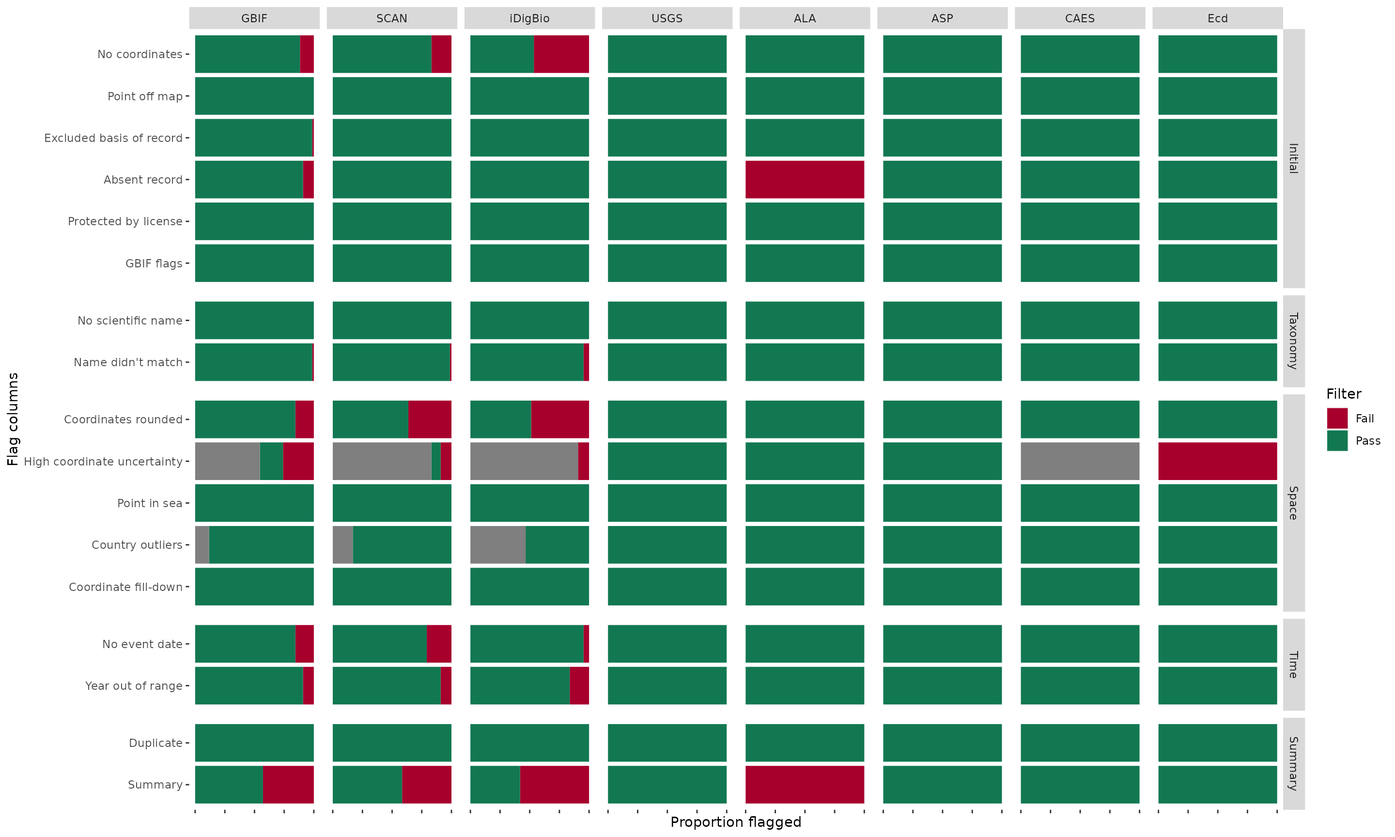
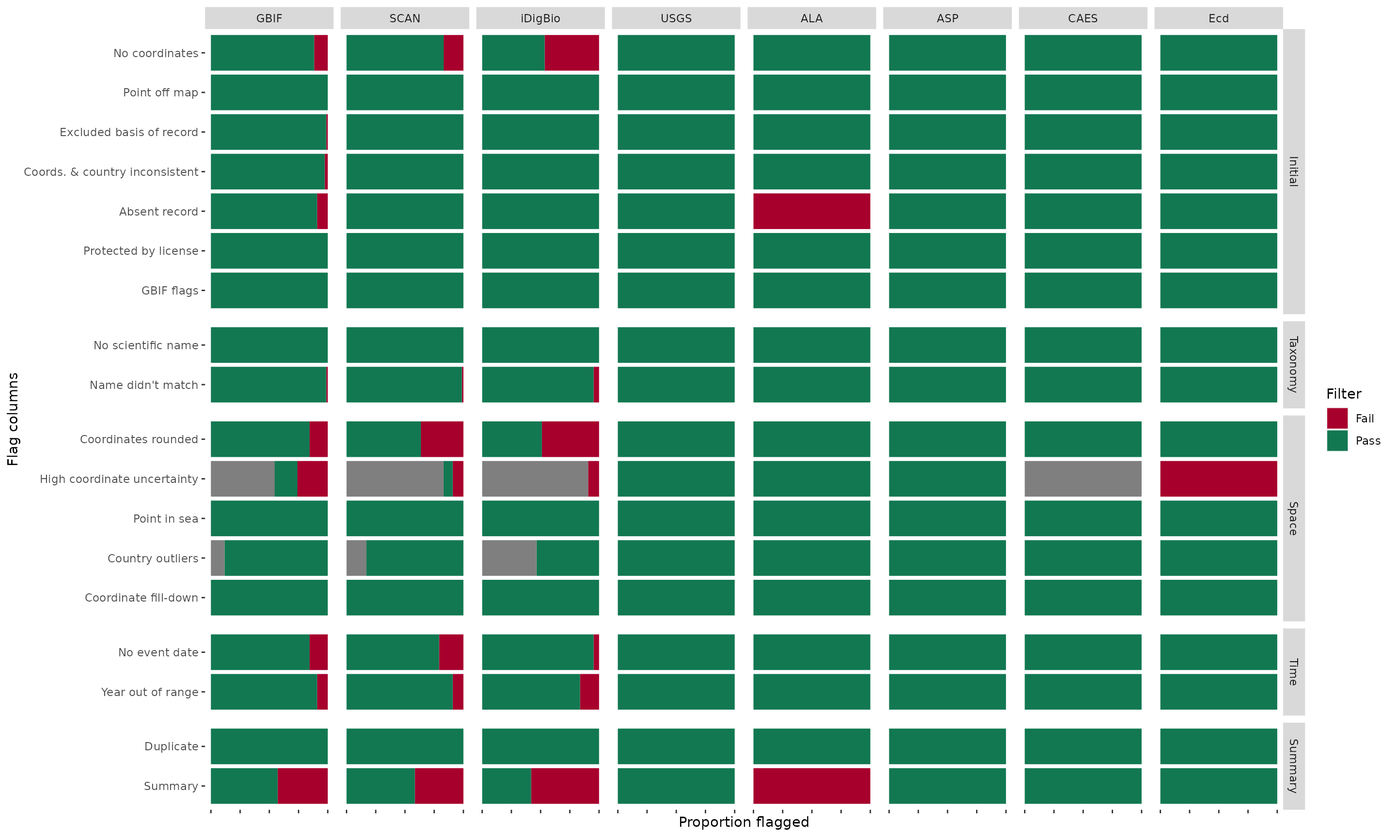
Deploying to gh-pages from @ jbdorey/BeeBDC@89a1ea1a7a8eb7227eee96995a95941b17343a9b 🚀

Changed region(s): [[0.0312, 0.0, 0.9375, 1.0], [0.0625, 0.5625, 0.0938, 0.5938], [0.0312, 0.5312, 0.0625, 0.5625]]

diff --git a/articles/BeeBDC_main.html b/articles/BeeBDC_main.html
@@ -190,7 +190,7 @@ gdal”.</p>
 <span><span class="co">## The version of R recorded in the lockfile will be updated:</span></span>
 <span><span class="co">## - R      [* -&gt; 4.3.1]</span></span>
 <span><span class="co">## </span></span>
-<span><span class="co">## - Lockfile written to "/tmp/RtmpQahp4o/Data_acquisition_workflow/renv.lock".</span></span></code></pre></div>
+<span><span class="co">## - Lockfile written to "/tmp/RtmpfxOD14/Data_acquisition_workflow/renv.lock".</span></span></code></pre></div>
 <p>Set up the directories used by BeeBDC. These directories include
 where the data, figures, reports, etc. will be saved. The RDoc needs to
 be a path RELATIVE to the RootPath; i.e., the file path from which the
@@ -583,7 +583,11 @@ occupancy. <em>Nature Ecology &amp; Evolution</em> 5, 787-793 (2021). <a href="h
 <div class="section level7">
 <h6 id="g--caes">g. CAES<a class="anchor" aria-label="anchor" href="#g--caes"></a>
 </h6>
-<p>From the Connecticut Agricultural Experiment Station</p>
+<p>From the Connecticut Agricultural Experiment Station. Zarrillo, T.
+A., Stoner, K. A. &amp; Ascher, J. S. Biodiversity of bees (Hymenoptera:
+Apoidea: Anthophila) in Connecticut (USA). Zootaxa (Accepted). Ecdysis.
+Occurrence dataset (ID: 16fca9c2-f622-4cb1-aef0-3635a7be5aeb). <a href="https://ecdysis.org/content/dwca/CAES-CAES_DwC-A.zip" class="external-link uri">https://ecdysis.org/content/dwca/CAES-CAES_DwC-A.zip</a>.
+(2023)</p>
 <pre><code><span><span class="va">CAES_Data</span> <span class="op">&lt;-</span> <span class="fu">BeeBDC</span><span class="fu">::</span><span class="fu"><a href="../reference/readr_BeeBDC.html">readr_BeeBDC</a></span><span class="op">(</span>dataset <span class="op">=</span> <span class="st">"CAES"</span>,</span>
 <span>                                path <span class="op">=</span> <span class="fu"><a href="https://rdrr.io/r/base/paste.html" class="external-link">paste0</a></span><span class="op">(</span><span class="va">DataPath</span>, <span class="st">"/Additional_Datasets"</span><span class="op">)</span>,</span>
 <span>                        inFile <span class="op">=</span> <span class="st">"/InputDatasets/CT_BEE_DATA_FROM_PBI.xlsx"</span>,</span>
@@ -921,13 +925,12 @@ details. NOTE: In an actual run you should use scale = “large”</p>
 <span>                                    <span class="co"># Start row</span></span>
 <span>                                   chunkStart <span class="op">=</span> <span class="fl">1</span>,</span>
 <span>                                   path <span class="op">=</span> <span class="va">OutPath_Intermediate</span>,</span>
-<span>                                   append <span class="op">=</span> <span class="cn">FALSE</span>,</span>
-<span>                                   progressiveSave <span class="op">=</span> <span class="cn">FALSE</span>,</span>
 <span>                                    <span class="co"># Normally, please use scale = "large"</span></span>
 <span>                                   scale <span class="op">=</span> <span class="st">"medium"</span>,</span>
 <span>                                   mc.cores <span class="op">=</span> <span class="fl">1</span><span class="op">)</span>,</span>
 <span>  classes <span class="op">=</span> <span class="st">"warning"</span><span class="op">)</span></span>
-<span><span class="co">## Error in BeeBDC::jbd_CfC_chunker(data = check_pf_noNa, lat = "decimalLatitude", : unused arguments (append = FALSE, progressiveSave = FALSE)</span></span></code></pre></div>
+<span><span class="co">##  - Starting parallel operation. Unlike the serial operation (mc.cores = 1) , a parallel operation will not provide running feedback. Please be patient  as this function may take some time to complete. Each chunk will be run on  a seperate thread so also be aware of RAM usage.</span></span>
+<span><span class="co">##  - We have updated the country names of 39 occurrences that previously had no country name assigned.</span></span></code></pre></div>
 </div>
 <div class="section level4">
 <h4 id="c--re-merge">c. re-merge<a class="anchor" aria-label="anchor" href="#c--re-merge"></a>
@@ -943,8 +946,7 @@ details. NOTE: In an actual run you should use scale = “large”</p>
 <span>                                         <span class="va">countryCO</span>,</span>
 <span>                                         <span class="va">country</span><span class="op">)</span><span class="op">)</span> <span class="op"><a href="https://magrittr.tidyverse.org/reference/pipe.html" class="external-link">%&gt;%</a></span></span>
 <span>    <span class="co"># Remove duplicates if they arose from left_join!</span></span>
-<span>  <span class="fu">dplyr</span><span class="fu">::</span><span class="fu"><a href="https://dplyr.tidyverse.org/reference/distinct.html" class="external-link">distinct</a></span><span class="op">(</span><span class="op">)</span></span>
-<span><span class="co">## Error in eval(expr, envir, enclos): object 'countryOutput' not found</span></span></code></pre></div>
+<span>  <span class="fu">dplyr</span><span class="fu">::</span><span class="fu"><a href="https://dplyr.tidyverse.org/reference/distinct.html" class="external-link">distinct</a></span><span class="op">(</span><span class="op">)</span></span></code></pre></div>
 <p>Save the dataset.</p>
 <div class="sourceCode" id="cb56"><pre class="downlit sourceCode r">
 <code class="sourceCode R"><span><span class="va">check_pf</span> <span class="op"><a href="https://magrittr.tidyverse.org/reference/pipe.html" class="external-link">%&gt;%</a></span></span>
@@ -990,6 +992,7 @@ codes, if needed.</p>
 <span><span class="co">## country found: Finland</span></span>
 <span><span class="co">## country found: France</span></span>
 <span><span class="co">## country found: Germany</span></span>
+<span><span class="co">## country found: Ireland</span></span>
 <span><span class="co">## country found: Mexico</span></span>
 <span><span class="co">## country found: Norway</span></span>
 <span><span class="co">## country found: South Africa</span></span>
@@ -1066,9 +1069,19 @@ coordinates are inconsistent with the provided country name.</p>
 <span>  data <span class="op">=</span> <span class="va">check_pf</span>,</span>
 <span>  lon <span class="op">=</span> <span class="st">"decimalLongitude"</span>,</span>
 <span>  lat <span class="op">=</span> <span class="st">"decimalLatitude"</span>,</span>
-<span>  mapResolution <span class="op">=</span> <span class="fl">50</span>,</span>
+<span>  scale <span class="op">=</span> <span class="fl">50</span>,</span>
 <span>  pointBuffer <span class="op">=</span> <span class="fl">0.01</span><span class="op">)</span></span>
-<span><span class="co">## Error in BeeBDC::jbd_coordCountryInconsistent(data = check_pf, lon = "decimalLongitude", : unused argument (mapResolution = 50)</span></span></code></pre></div>
+<span><span class="co">##  - Downloading naturalearth map...</span></span>
+<span><span class="co">## Spherical geometry (s2) switched off</span></span>
+<span><span class="co">##  - Extracting initial country names without buffer...</span></span>
+<span><span class="co">##  - Buffering naturalearth map by pointBuffer...</span></span>
+<span><span class="co">## dist is assumed to be in decimal degrees (arc_degrees).</span></span>
+<span><span class="co">##  - Extracting FAILED country names WITH buffer...</span></span>
+<span><span class="co">## </span></span>
+<span><span class="co">## jbd_coordinates_country_inconsistent:</span></span>
+<span><span class="co">## Flagged 2 records.</span></span>
+<span><span class="co">## The column, '.coordinates_country_inconsistent', was added to the database.</span></span>
+<span><span class="co">##  - Completed in 1.11 secs</span></span></code></pre></div>
 <p>Save the dataset.</p>
 <div class="sourceCode" id="cb65"><pre class="downlit sourceCode r">
 <code class="sourceCode R"><span><span class="va">check_pf</span> <span class="op"><a href="https://magrittr.tidyverse.org/reference/pipe.html" class="external-link">%&gt;%</a></span></span>
@@ -1171,7 +1184,7 @@ fail-safe.</p>
 <span>  filterClean <span class="op">=</span> <span class="cn">FALSE</span><span class="op">)</span></span>
 <span><span class="co">##  - We will flag all columns starting with '.'</span></span>
 <span><span class="co">##  - summaryFun:</span></span>
-<span><span class="co">## Flagged 50 </span></span>
+<span><span class="co">## Flagged 52 </span></span>
 <span><span class="co">##   The .summary column was added to the database.</span></span></code></pre></div>
 </div>
 <div class="section level4">
@@ -1251,8 +1264,7 @@ columns.</p>
 <span>  <span class="fu">dplyr</span><span class="fu">::</span><span class="fu"><a href="https://dplyr.tidyverse.org/reference/select.html" class="external-link">select</a></span><span class="op">(</span><span class="va">.uncer_terms</span>, <span class="va">names_clean</span><span class="op">)</span></span></code></pre></div>
 <p>Merge names with the complete dataset.</p>
 <div class="sourceCode" id="cb81"><pre class="downlit sourceCode r">
-<code class="sourceCode R"><span><span class="va">database</span> <span class="op">&lt;-</span> <span class="fu">dplyr</span><span class="fu">::</span><span class="fu"><a href="https://dplyr.tidyverse.org/reference/bind_cols.html" class="external-link">bind_cols</a></span><span class="op">(</span><span class="va">database</span>, <span class="va">parse_names</span><span class="op">)</span></span>
-<span><span class="co">## Error in eval(expr, envir, enclos): object 'parse_names' not found</span></span>
+<code class="sourceCode R"><span><span class="va">database</span> <span class="op">&lt;-</span> <span class="fu">dplyr</span><span class="fu">::</span><span class="fu"><a href="https://dplyr.tidyverse.org/reference/bind_cols.html" class="external-link">bind_cols</a></span><span class="op">(</span><span class="va">database</span><span class="op">)</span></span>
 <span><span class="fu"><a href="https://rdrr.io/r/base/rm.html" class="external-link">rm</a></span><span class="op">(</span><span class="va">parse_names</span><span class="op">)</span></span></code></pre></div>
 </div>
 <div class="section level3">
@@ -1286,7 +1298,7 @@ Life</a>. You can also use multiple cores to achieve this. See
 <span><span class="co">## records were flagged.</span></span>
 <span><span class="co">## The column, '.invalidName' was added to the database.</span></span>
 <span><span class="co">##  - We updated the following columns: scientificName, species, family, subfamily, genus, subgenus, specificEpithet, infraspecificEpithet, and scientificNameAuthorship. The previous scientificName column was converted to verbatimScientificName</span></span>
-<span><span class="co">##  - Completed in 1.91 secs</span></span></code></pre></div>
+<span><span class="co">##  - Completed in 1.58 secs</span></span></code></pre></div>
 <p>You don’t need this file any more…</p>
 <div class="sourceCode" id="cb84"><pre class="downlit sourceCode r">
 <code class="sourceCode R"><span><span class="fu"><a href="https://rdrr.io/r/base/rm.html" class="external-link">rm</a></span><span class="op">(</span><span class="va">beesTaxonomy</span><span class="op">)</span></span></code></pre></div>
@@ -1537,7 +1549,6 @@ identifying potential misidentifications, outliers, etc.’</p>
 <span>                          <span class="co"># We have not attempted a scale of 10.</span></span>
 <span>                        scale <span class="op">=</span> <span class="fl">50</span>,</span>
 <span>                        mc.cores <span class="op">=</span> <span class="fl">1</span><span class="op">)</span></span>
-<span><span class="co">## Spherical geometry (s2) switched off</span></span>
 <span><span class="co">##  - Extracting country data from points...</span></span>
 <span><span class="co">##  - Buffering failed points by pointBuffer...</span></span>
 <span><span class="co">##  - Prepare the neighbouring country dataset...</span></span>
@@ -1556,7 +1567,7 @@ identifying potential misidentifications, outliers, etc.’</p>
 <span><span class="co">##  1.  The '.countryOutlier' column was added which is a filtering column. </span></span>
 <span><span class="co">##  2.  The 'countryMatch' columns indicates exact, neighbour, or noMatch. </span></span>
 <span><span class="co">##  3. The '.sea' column was added as a filtering column for points in the ocean.  The '.sea' column includes the user input buffer in its calculation.</span></span>
-<span><span class="co">##  - Completed in 6.99 secs</span></span></code></pre></div>
+<span><span class="co">##  - Completed in 6.22 secs</span></span></code></pre></div>
 <div class="sourceCode" id="cb105"><pre class="downlit sourceCode r">
 <code class="sourceCode R"><span>  <span class="co"># A list of failed species-country combinations and their numbers can be output here</span></span>
 <span><span class="va">check_space</span> <span class="op"><a href="https://magrittr.tidyverse.org/reference/pipe.html" class="external-link">%&gt;%</a></span></span>
@@ -1712,7 +1723,7 @@ were a) missing and b) located in one of the searched columns.</p>
 <span><span class="co">## We rescued: </span></span>
 <span><span class="co">## 175 occurrences with missing eventDate.</span></span>
 <span><span class="co">##  - As it stands, there are 175 complete eventDates and 30 missing dates.</span></span>
-<span><span class="co">##  - There are also 175 complete year occurrences to filter from. This is up from an initial count of 174 At this rate, you will stand to lose 30 occurrences on the basis of missing year - Operation time: 0.412241220474243 secs</span></span></code></pre></div>
+<span><span class="co">##  - There are also 175 complete year occurrences to filter from. This is up from an initial count of 174 At this rate, you will stand to lose 30 occurrences on the basis of missing year - Operation time: 0.383747577667236 secs</span></span></code></pre></div>
 </div>
 <div class="section level3">
 <h3 id="no-eventdate">6.2 No eventDate<a class="anchor" aria-label="anchor" href="#no-eventdate"></a>
@@ -1909,8 +1920,9 @@ this function is quite modifiable to user needs.</p>
 <span><span class="co">##  - Ordering prefixs...</span></span>
 <span><span class="co">##  - Ordering data by 1. dataSource, 2. completeness and 3. .summary column...</span></span>
 <span><span class="co">##  - Find and FIRST duplicate to keep and assign other associated duplicates to that one (i.e., across multiple tests a 'kept duplicate', could otherwise be removed)...</span></span>
-<span><span class="co">## Error: Cannot open file for writing:</span></span>
-<span><span class="co">## * '/tmp/RtmpQahp4o/Data_acquisition_workflow/Output/Report/duplicateRun_collectionInfo_2023-09-09.csv'</span></span></code></pre></div>
+<span><span class="co">##  - Duplicates have been saved in the file and location: /tmp/RtmpfxOD14/Data_acquisition_workflow/Output/ReportduplicateRun_collectionInfo_2023-09-11.csv</span></span>
+<span><span class="co">##  - Across the entire dataset, there are now 0 duplicates from a total of 205 occurrences.</span></span>
+<span><span class="co">##  - Completed in 0.64 secs</span></span></code></pre></div>
 <p>Save the dataset into the intermediate folder.</p>
 <div class="sourceCode" id="cb128"><pre class="downlit sourceCode r">
 <code class="sourceCode R"><span><span class="va">check_time</span> <span class="op"><a href="https://magrittr.tidyverse.org/reference/pipe.html" class="external-link">%&gt;%</a></span></span>
@@ -1952,8 +1964,16 @@ expert outliers.</p>
 <span>  <span class="va">duplicates</span> <span class="op">&lt;-</span> <span class="fu">BeeBDC</span><span class="fu">::</span><span class="fu"><a href="../reference/fileFinder.html">fileFinder</a></span><span class="op">(</span>path <span class="op">=</span> <span class="va">DataPath</span>,</span>
 <span>                            fileName <span class="op">=</span> <span class="st">"duplicateRun_"</span><span class="op">)</span> <span class="op"><a href="https://magrittr.tidyverse.org/reference/pipe.html" class="external-link">%&gt;%</a></span></span>
 <span>    <span class="fu">readr</span><span class="fu">::</span><span class="fu"><a href="https://readr.tidyverse.org/reference/read_delim.html" class="external-link">read_csv</a></span><span class="op">(</span><span class="op">)</span><span class="op">}</span></span>
-<span><span class="co">## Error in BeeBDC::fileFinder(path = DataPath, fileName = "duplicateRun_"):  - Bugger it, R can't find the file that you're looking for :(</span></span>
-<span><span class="co">## Please check that it exists in the provided directory.</span></span></code></pre></div>
+<span><span class="co">##  - Dates found in file name(s). Finding most-recent file from file name...</span></span>
+<span><span class="co">##  - Found the following file(s): </span></span>
+<span><span class="co">##  /tmp/RtmpfxOD14/Data_acquisition_workflow/Output/Report/duplicateRun_collectionInfo_2023-09-11.csv</span></span>
+<span><span class="co">## <span style="font-weight: bold;">Rows: </span><span style="color: #0000BB;">0</span> <span style="font-weight: bold;">Columns: </span><span style="color: #0000BB;">19</span></span></span>
+<span><span class="co">## <span style="color: #00BBBB;">──</span> <span style="font-weight: bold;">Column specification</span> <span style="color: #00BBBB;">────────────────────────────────────────────────────────</span></span></span>
+<span><span class="co">## <span style="font-weight: bold;">Delimiter:</span> ","</span></span>
+<span><span class="co">## <span style="color: #BB0000;">chr</span> (19): group, database_id, database_id_keep, dupColumn_s, decimalLatitude...</span></span>
+<span><span class="co">## </span></span>
+<span><span class="co">## <span style="color: #00BBBB;">ℹ</span> Use `spec()` to retrieve the full column specification for this data.</span></span>
+<span><span class="co">## <span style="color: #00BBBB;">ℹ</span> Specify the column types or set `show_col_types = FALSE` to quiet this message.</span></span></code></pre></div>
 <p>Identify the outliers and get a list of their database_ids. This
 would require the source outlier files provided with the <a href="https://www.biorxiv.org/content/10.1101/2023.06.30.547152v1" class="external-link">BeeBDC</a>
 paper. These files can further be modified to include more outliers.</p>
@@ -2035,9 +2055,7 @@ already in your environment.</p>
 <code class="sourceCode R"><span><span class="kw">if</span><span class="op">(</span><span class="op">!</span><span class="fu"><a href="https://rdrr.io/r/base/exists.html" class="external-link">exists</a></span><span class="op">(</span><span class="st">"duplicates"</span><span class="op">)</span><span class="op">)</span><span class="op">{</span></span>
 <span>  <span class="va">duplicates</span> <span class="op">&lt;-</span> <span class="fu">BeeBDC</span><span class="fu">::</span><span class="fu"><a href="../reference/fileFinder.html">fileFinder</a></span><span class="op">(</span>path <span class="op">=</span> <span class="va">DataPath</span>,</span>
 <span>                            fileName <span class="op">=</span> <span class="st">"duplicateRun_"</span><span class="op">)</span> <span class="op"><a href="https://magrittr.tidyverse.org/reference/pipe.html" class="external-link">%&gt;%</a></span></span>
-<span>    <span class="fu">readr</span><span class="fu">::</span><span class="fu"><a href="https://readr.tidyverse.org/reference/read_delim.html" class="external-link">read_csv</a></span><span class="op">(</span><span class="op">)</span><span class="op">}</span></span>
-<span><span class="co">## Error in BeeBDC::fileFinder(path = DataPath, fileName = "duplicateRun_"):  - Bugger it, R can't find the file that you're looking for :(</span></span>
-<span><span class="co">## Please check that it exists in the provided directory.</span></span></code></pre></div>
+<span>    <span class="fu">readr</span><span class="fu">::</span><span class="fu"><a href="https://readr.tidyverse.org/reference/read_delim.html" class="external-link">read_csv</a></span><span class="op">(</span><span class="op">)</span><span class="op">}</span></span></code></pre></div>
 <p>Choose the global figure parameters.</p>
 <div class="sourceCode" id="cb139"><pre class="downlit sourceCode r">
 <code class="sourceCode R"><span>  <span class="fu"><a href="https://rdrr.io/r/graphics/par.html" class="external-link">par</a></span><span class="op">(</span>mar <span class="op">=</span> <span class="fu"><a href="https://rdrr.io/r/base/c.html" class="external-link">c</a></span><span class="op">(</span><span class="fl">2</span>, <span class="fl">2</span>, <span class="fl">2</span>, <span class="fl">2</span><span class="op">)</span><span class="op">/</span><span class="fl">2</span>, mfrow <span class="op">=</span> <span class="fu"><a href="https://rdrr.io/r/base/c.html" class="external-link">c</a></span><span class="op">(</span><span class="fl">1</span>,<span class="fl">1</span><span class="op">)</span><span class="op">)</span></span></code></pre></div>
@@ -2106,8 +2124,8 @@ underscore).</p>
 <span>  GBIF <span class="op">=</span> <span class="st">"GBIF"</span>, SCAN <span class="op">=</span> <span class="st">"SCAN"</span>, iDigBio <span class="op">=</span> <span class="st">"iDigBio"</span>, USGS <span class="op">=</span> <span class="st">"USGS"</span>, ALA <span class="op">=</span> <span class="st">"ALA"</span>, </span>
 <span>  ASP <span class="op">=</span> <span class="st">"ASP"</span>, CAES <span class="op">=</span> <span class="st">"CAES"</span>, Ecd <span class="op">=</span> <span class="st">"Ecd"</span>,</span>
 <span>  returnPlot <span class="op">=</span> <span class="cn">TRUE</span></span>
-<span><span class="op">)</span></span>
-<span><span class="co">## Error in BeeBDC::dupePlotR(data = beeData, outPath = OutPath_Figures, :  - No duplicates flagged in the dataset. Stopping process.</span></span></code></pre></div>
+<span><span class="op">)</span></span></code></pre></div>
+<p><img src="BeeBDC_main_files/figure-html/9.2ii-1.png" width="700"></p>
 </div>
 <div class="section level3">
 <h3 id="flags-by-source">9.3 Flags by source<a class="anchor" aria-label="anchor" href="#flags-by-source"></a>
@@ -2148,8 +2166,8 @@ text before the first underscore.)</p>
 <span>  returnPlot <span class="op">=</span> <span class="cn">TRUE</span></span>
 <span><span class="op">)</span></span>
 <span><span class="co">##  - Preparing data to plot...</span></span>
-<span><span class="co">##  - Building plot...</span></span>
-<span><span class="co">## Error in grDevices::pdf(file = filename, ..., version = version): cannot open file '/tmp/RtmpQahp4o/Data_acquisition_workflow/Output/Figures/FlagsPlot_2023-09-09.pdf'</span></span></code></pre></div>
+<span><span class="co">##  - Building plot...</span></span></code></pre></div>
+<p><img src="BeeBDC_main_files/figure-html/9.3-1.png" width="1440"></p>
 </div>
 <div class="section level3">
 <h3 id="maps">9.4 Maps<a class="anchor" aria-label="anchor" href="#maps"></a>
@@ -2257,6 +2275,7 @@ to group the summary. While it is intended to work with the
 <span><span class="co">##   .coordinates_empty = 26.19%</span></span>
 <span><span class="co">##   .coordinates_outOfRange = 0%</span></span>
 <span><span class="co">##   .basisOfRecords_notStandard = 1.19%</span></span>
+<span><span class="co">##   .coordinates_country_inconsistent = 1.19%</span></span>
 <span><span class="co">##   .occurrenceAbsent = 8.33%</span></span>
 <span><span class="co">##   .unLicensed = 0%</span></span>
 <span><span class="co">##   .GBIFflags = 0%</span></span>
@@ -2266,7 +2285,8 @@ to group the summary. While it is intended to work with the
 <span><span class="co">##   .countryOutlier = 0%</span></span>
 <span><span class="co">##   .sea = 0%</span></span>
 <span><span class="co">##   .eventDate_empty = 15.48%</span></span>
-<span><span class="co">##   .year_outOfRange = 16.67%</span></span></code></pre></div>
+<span><span class="co">##   .year_outOfRange = 16.67%</span></span>
+<span><span class="co">##   .duplicates = 0%</span></span></code></pre></div>
 </div>
 </div>
   </div>

diff --git a/reference/fileFinder.html b/reference/fileFinder.html
@@ -142,14 +142,14 @@ check that this is the correct file to avoid complications down the line</p>
 <span class="r-in"><span><span class="fu">fileFinder</span><span class="op">(</span>path <span class="op">=</span> <span class="va">RootPath</span>, fileName <span class="op">=</span> <span class="st">"beesRaw"</span><span class="op">)</span></span></span>
 <span class="r-out co"><span class="r-pr">#&gt;</span>  - No dates in file name(s). Finding most-recent from file save time...</span>
 <span class="r-out co"><span class="r-pr">#&gt;</span>  - Found the following file(s): </span>
-<span class="r-out co"><span class="r-pr">#&gt;</span>  /tmp/Rtmp8nPznD/beesRaw.csv</span>
-<span class="r-out co"><span class="r-pr">#&gt;</span> [1] "/tmp/Rtmp8nPznD/beesRaw.csv"</span>
+<span class="r-out co"><span class="r-pr">#&gt;</span>  /tmp/RtmpdpJPLV/beesRaw.csv</span>
+<span class="r-out co"><span class="r-pr">#&gt;</span> [1] "/tmp/RtmpdpJPLV/beesRaw.csv"</span>
 <span class="r-in"><span><span class="co"># more specifically the .csv version</span></span></span>
 <span class="r-in"><span><span class="fu">fileFinder</span><span class="op">(</span>path <span class="op">=</span> <span class="va">RootPath</span>, fileName <span class="op">=</span> <span class="st">"beesRaw.csv"</span><span class="op">)</span></span></span>
 <span class="r-out co"><span class="r-pr">#&gt;</span>  - No dates in file name(s). Finding most-recent from file save time...</span>
 <span class="r-out co"><span class="r-pr">#&gt;</span>  - Found the following file(s): </span>
-<span class="r-out co"><span class="r-pr">#&gt;</span>  /tmp/Rtmp8nPznD/beesRaw.csv</span>
-<span class="r-out co"><span class="r-pr">#&gt;</span> [1] "/tmp/Rtmp8nPznD/beesRaw.csv"</span>
+<span class="r-out co"><span class="r-pr">#&gt;</span>  /tmp/RtmpdpJPLV/beesRaw.csv</span>
+<span class="r-out co"><span class="r-pr">#&gt;</span> [1] "/tmp/RtmpdpJPLV/beesRaw.csv"</span>
 <span class="r-in"><span><span class="co"># }</span></span></span>
 </code></pre></div>
     </div>

diff --git a/reference/flagRecorder.html b/reference/flagRecorder.html
@@ -164,7 +164,7 @@ tidyselect::starts_with(".")</p></dd>
 <span class="r-in"><span>  <span class="co"># TRUE if you want to find a file from a previous part of the script to append to</span></span></span>
 <span class="r-in"><span>  append <span class="op">=</span> <span class="cn">FALSE</span><span class="op">)</span></span></span>
 <span class="r-msg co"><span class="r-pr">#&gt;</span>  - .summary column detected. This will be over-written.</span>
-<span class="r-msg co"><span class="r-pr">#&gt;</span>  - Data saved to /tmp/Rtmp8nPznD/flagsRecorded_2023-09-09.csv</span>
+<span class="r-msg co"><span class="r-pr">#&gt;</span>  - Data saved to /tmp/RtmpdpJPLV/flagsRecorded_2023-09-11.csv</span>
 <span class="r-out co"><span class="r-pr">#&gt;</span>  - Selected 34 columns. These include:</span>
 <span class="r-out co"><span class="r-pr">#&gt;</span> database_id, id, catalogNumber, occurrenceID, dataSource, .scientificName_empty, .coordinates_empty, .coordinates_outOfRange, .basisOfRecords_notStandard, .coordinates_country_inconsistent, .occurrenceAbsent, .unLicensed, .GBIFflags, .uncer_terms, .invalidName, .rou, .val, .equ, .zer, .cap, .cen, .gbf, .inst, .sequential, .lonFlag, .latFlag, .gridSummary, .uncertaintyThreshold, .countryOutlier, .sea, .summary, .eventDate_empty, .year_outOfRange, and .duplicates</span>
 </code></pre></div>

diff --git a/reference/dupeSummary.html b/reference/dupeSummary.html
@@ -318,9 +318,9 @@ other functions including
 <span class="r-out co"><span class="r-pr">#&gt;</span> Duplicate pairs clustered. There are 0 duplicates across 0 kept duplicates.</span>
 <span class="r-out co"><span class="r-pr">#&gt;</span>  - Ordering data by 1. dataSource, 2. completeness and 3. .summary column...</span>
 <span class="r-out co"><span class="r-pr">#&gt;</span>  - Find and FIRST duplicate to keep and assign other associated duplicates to that one (i.e., across multiple tests a 'kept duplicate', could otherwise be removed)...</span>
-<span class="r-out co"><span class="r-pr">#&gt;</span>  - Duplicates have been saved in the file and location: /tmp/Rtmp8nPznD/duplicateRun_collectionInfo_2023-09-09.csv</span>
+<span class="r-out co"><span class="r-pr">#&gt;</span>  - Duplicates have been saved in the file and location: /tmp/RtmpdpJPLV/duplicateRun_collectionInfo_2023-09-11.csv</span>
 <span class="r-out co"><span class="r-pr">#&gt;</span>  - Across the entire dataset, there are now 0 duplicates from a total of 100 occurrences.</span>
-<span class="r-msg co"><span class="r-pr">#&gt;</span>  - Completed in 0.49 secs</span>
+<span class="r-msg co"><span class="r-pr">#&gt;</span>  - Completed in 0.43 secs</span>
 <span class="r-in"><span></span></span>
 <span class="r-in"><span></span></span>
 </code></pre></div>

diff --git a/reference/countryOutlieRs.html b/reference/countryOutlieRs.html
@@ -195,7 +195,7 @@ the new column: TRUE == passed, FALSE == failed, NA == did not overlap with rnat
 <span class="r-msg co"><span class="r-pr">#&gt;</span>  1.  The '.countryOutlier' column was added which is a filtering column. </span>
 <span class="r-msg co"><span class="r-pr">#&gt;</span>  2.  The 'countryMatch' columns indicates exact, neighbour, or noMatch. </span>
 <span class="r-msg co"><span class="r-pr">#&gt;</span>  3. The '.sea' column was added as a filtering column for points in the ocean.  The '.sea' column includes the user input buffer in its calculation.</span>
-<span class="r-msg co"><span class="r-pr">#&gt;</span>  - Completed in 2.44 secs</span>
+<span class="r-msg co"><span class="r-pr">#&gt;</span>  - Completed in 2.3 secs</span>
 <span class="r-in"><span><span class="fu"><a href="https://rdrr.io/r/base/table.html" class="external-link">table</a></span><span class="op">(</span><span class="va">beesRaw_out</span><span class="op">$</span><span class="va">.countryOutlier</span>, useNA <span class="op">=</span> <span class="st">"always"</span><span class="op">)</span></span></span>
 <span class="r-out co"><span class="r-pr">#&gt;</span> </span>
 <span class="r-out co"><span class="r-pr">#&gt;</span> TRUE &lt;NA&gt; </span>

diff --git a/reference/HarmoniseR.html b/reference/HarmoniseR.html
@@ -189,7 +189,7 @@ name did not match the supplied taxonomy.</p>
 <span class="r-out co"><span class="r-pr">#&gt;</span> The column, '.invalidName' was added to the database.</span>
 <span class="r-out co"><span class="r-pr">#&gt;</span> </span>
 <span class="r-msg co"><span class="r-pr">#&gt;</span>  - We updated the following columns: scientificName, species, family, subfamily, genus, subgenus, specificEpithet, infraspecificEpithet, and scientificNameAuthorship. The previous scientificName column was converted to verbatimScientificName</span>
-<span class="r-msg co"><span class="r-pr">#&gt;</span>  - Completed in 1.4 secs</span>
+<span class="r-msg co"><span class="r-pr">#&gt;</span>  - Completed in 1.19 secs</span>
 <span class="r-in"><span><span class="fu"><a href="https://rdrr.io/r/base/table.html" class="external-link">table</a></span><span class="op">(</span><span class="va">beesRaw_out</span><span class="op">$</span><span class="va">.invalidName</span>, useNA <span class="op">=</span> <span class="st">"always"</span><span class="op">)</span></span></span>
 <span class="r-out co"><span class="r-pr">#&gt;</span> </span>
 <span class="r-out co"><span class="r-pr">#&gt;</span> FALSE  TRUE  &lt;NA&gt; </span>

diff --git a/reference/jbd_CfC_chunker.html b/reference/jbd_CfC_chunker.html
@@ -212,7 +212,7 @@ that needs to be re-merged with the data input.</p>
 <span class="r-out co"><span class="r-pr">#&gt;</span>  - Starting parallel operation. Unlike the serial operation (mc.cores = 1) , a parallel operation will not provide running feedback. Please be patient  as this function may take some time to complete. Each chunk will be run on  a seperate thread so also be aware of RAM usage.</span>
 <span class="r-msg co"><span class="r-pr">#&gt;</span> Loading required package: rnaturalearth</span>
 <span class="r-msg co"><span class="r-pr">#&gt;</span> Support for Spatial objects (`sp`) will be deprecated in {rnaturalearth} and will be removed in a future release of the package. Please use `sf` objects with {rnaturalearth}. For example: `ne_download(returnclass = 'sf')`</span>
-<span class="r-msg co"><span class="r-pr">#&gt;</span>  - Completed in 0.56 secs</span>
+<span class="r-msg co"><span class="r-pr">#&gt;</span>  - Completed in 0.55 secs</span>
 <span class="r-out co"><span class="r-pr">#&gt;</span>  - We have updated the country names of 5 occurrences that previously had no country name assigned.</span>
 <span class="r-in"><span></span></span>
 <span class="r-in"><span></span></span>

diff --git a/reference/jbd_Ctrans_chunker.html b/reference/jbd_Ctrans_chunker.html
@@ -260,7 +260,7 @@ that had coordinates transposed.</p>
 <span class="r-msg co"><span class="r-pr">#&gt;</span> 0 occurrences will be tested</span>
 <span class="r-msg co"><span class="r-pr">#&gt;</span> No latitude and longitude were transposed</span>
 <span class="r-out co"><span class="r-pr">#&gt;</span>  - Finished chunk 1 with 1 remaining. Records examined: 20</span>
-<span class="r-msg co"><span class="r-pr">#&gt;</span>  - Completed in 6.02 secs</span>
+<span class="r-msg co"><span class="r-pr">#&gt;</span>  - Completed in 5.19 secs</span>
 <span class="r-in"><span><span class="fu"><a href="https://rdrr.io/r/base/table.html" class="external-link">table</a></span><span class="op">(</span><span class="va">beesFlagged_out</span><span class="op">$</span><span class="va">coordinates_transposed</span>, useNA <span class="op">=</span> <span class="st">"always"</span><span class="op">)</span></span></span>
 <span class="r-out co"><span class="r-pr">#&gt;</span> </span>
 <span class="r-out co"><span class="r-pr">#&gt;</span> TRUE &lt;NA&gt; </span>

diff --git a/reference/dateFindR.html b/reference/dateFindR.html
@@ -148,7 +148,7 @@ searched columns.</p>
 <span class="r-out co"><span class="r-pr">#&gt;</span> We rescued: </span>
 <span class="r-out co"><span class="r-pr">#&gt;</span> 89 occurrences with missing eventDate.</span>
 <span class="r-out co"><span class="r-pr">#&gt;</span>  - As it stands, there are 89 complete eventDates and 11 missing dates.</span>
-<span class="r-out co"><span class="r-pr">#&gt;</span>  - There are also 89 complete year occurrences to filter from. This is up from an initial count of 88 At this rate, you will stand to lose 11 occurrences on the basis of missing year - Operation time: 0.238034963607788 secs</span>
+<span class="r-out co"><span class="r-pr">#&gt;</span>  - There are also 89 complete year occurrences to filter from. This is up from an initial count of 88 At this rate, you will stand to lose 11 occurrences on the basis of missing year - Operation time: 0.220258474349976 secs</span>
 </code></pre></div>
     </div>
   </div>

diff --git a/articles/basic_workflow.html b/articles/basic_workflow.html
@@ -194,7 +194,7 @@ gdal”.</p>
 <span><span class="co">## The version of R recorded in the lockfile will be updated:</span></span>
 <span><span class="co">## - R      [* -&gt; 4.3.1]</span></span>
 <span><span class="co">## </span></span>
-<span><span class="co">## - Lockfile written to "/tmp/RtmpgcqKaW/Data_acquisition_workflow/renv.lock".</span></span></code></pre></div>
+<span><span class="co">## - Lockfile written to "/tmp/Rtmpr0Rgcb/Data_acquisition_workflow/renv.lock".</span></span></code></pre></div>
 <p>Set up the directories used by <strong>BeeBDC</strong>. These
 directories include where the data, figures, reports, etc. will be
 saved. The RDoc needs to be a path RELATIVE to the RootPath; i.e., the

diff --git a/reference/diagonAlley.html b/reference/diagonAlley.html
@@ -181,7 +181,7 @@ columns are empty, that record will be excluded.</p>
 <span class="r-msg co"><span class="r-pr">#&gt;</span> diagonAlley:</span>
 <span class="r-msg co"><span class="r-pr">#&gt;</span> Flagged 0 records</span>
 <span class="r-msg co"><span class="r-pr">#&gt;</span> The .sequential column was added to the database.</span>
-<span class="r-msg co"><span class="r-pr">#&gt;</span>  - Completed in 0.05 secs</span>
+<span class="r-msg co"><span class="r-pr">#&gt;</span>  - Completed in 0.04 secs</span>
 <span class="r-in"><span>  </span></span>
 <span class="r-in"><span></span></span>
 </code></pre></div>

diff --git a/reference/jbd_coordCountryInconsistent.html b/reference/jbd_coordCountryInconsistent.html
@@ -192,7 +192,7 @@ Default = 1.</p></dd>
 <span class="r-msg co"><span class="r-pr">#&gt;</span> jbd_coordinates_country_inconsistent:</span>
 <span class="r-msg co"><span class="r-pr">#&gt;</span> Flagged 2 records.</span>
 <span class="r-msg co"><span class="r-pr">#&gt;</span> The column, '.coordinates_country_inconsistent', was added to the database.</span>
-<span class="r-msg co"><span class="r-pr">#&gt;</span>  - Completed in 1.3 secs</span>
+<span class="r-msg co"><span class="r-pr">#&gt;</span>  - Completed in 1.24 secs</span>
 </code></pre></div>
     </div>
   </div>
